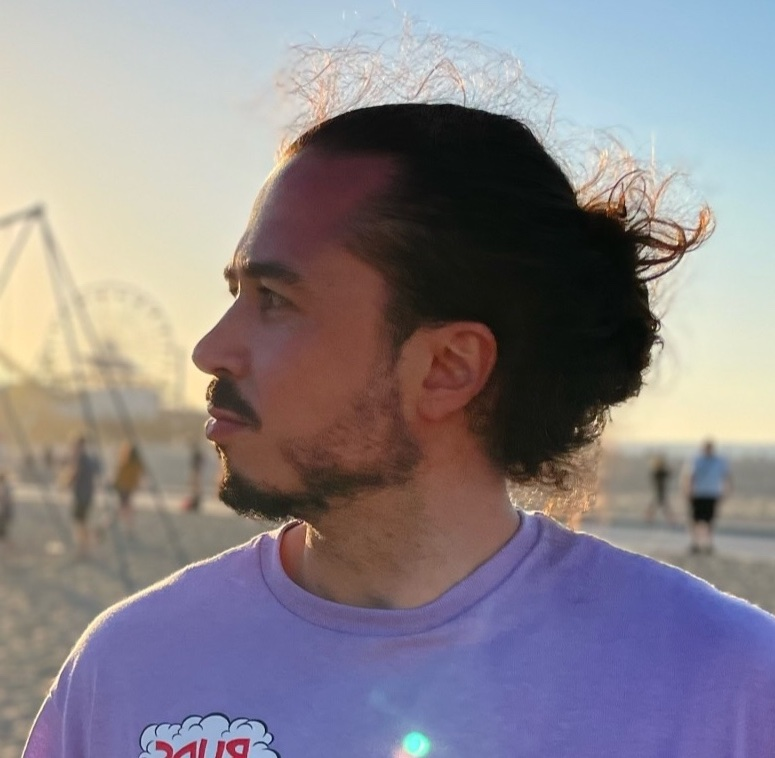
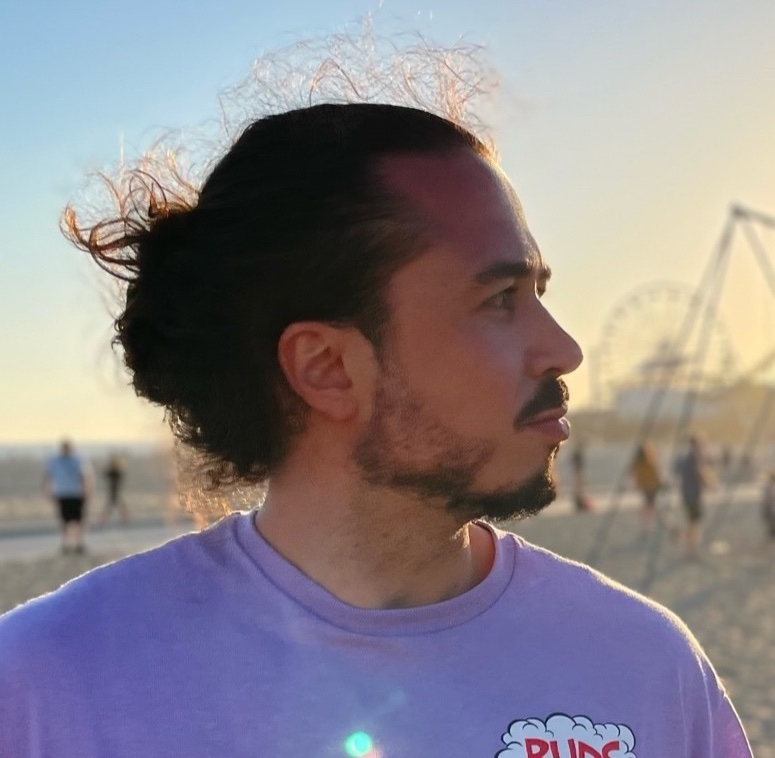
Improve landing page layout and replace picture

diff --git a/src/components/landing/LandingPage.tsx b/src/components/landing/LandingPage.tsx
@@ -12,6 +12,14 @@ import SurfKitty from '../surfkitty/SurfKitty';
 export const LandingPage = (): ReactElement => {
   return (
     <>
+      <Box display={{ md: 'flex' }}>
+        <Box flexGrow={1}>
+          <Heading as={'h2'} variant={'page-title'}>
+            Lars Braitinger
+          </Heading>
+          <p>Software Engineer</p>
+        </Box>
+      </Box>
       <SurfKitty />
       <Container maxW={'container.lg'}>
         <Box borderRadius={'lg'} p={3} mb={6} alignContent={'center'}
@@ -19,62 +27,66 @@ export const LandingPage = (): ReactElement => {
              css={{ backdropFilter: 'blur(10px)' }}>
           Hi, I'm a Full-Stack Developer based in Switzerland who loves to connect & create.
         </Box>
-        <Box display={{ md: 'flex' }}>
-          <Box flexGrow={1}>
-            <Heading as={'h2'} variant={'page-title'}>
-              Lars Braitinger
-            </Heading>
-            <p>Software Engineer</p>
-          </Box>
-          <Box
-            flexShrink={0}
-            mt={{ base: 4, md: 0 }}
-            ml={{ md: 6 }}
-            textAlign="center"
-          >
-            <Box
-              borderColor="whiteAlpha.800"
-              borderWidth={2}
-              borderStyle="solid"
-              w="100px"
-              h="100px"
-              display="inline-block"
-              borderRadius="full"
-              overflow="hidden"
-            >
-              <ProfileImage
-                src="/images/lars.jpeg"
-                alt="Profile image"
-                borderRadius="full"
-                width="100"
-                height="100"
-              />
-            </Box>
-          </Box>
-        </Box>
         <Section delay={0.1}>
           <Heading as={'h3'} variant={'section-title'}>
             Intro
           </Heading>
-          <Paragraph>As a passionate and dedicated software engineer, I bring industry experience in designing,
-            developing, and maintaining both web and mobile applications using a diverse range of tech stacks. I am
-            proficient in understanding clients' needs and delivering projects that meet their requirements. With a
-            strong
-            academic background and hands-on experience in transforming software-related business ideas into reality, I
-            am
-            committed to collaborating with teams to deliver high-quality products on time.</Paragraph>
-          <br />
-          <Paragraph>
-            Throughout my journey, I have honed my skills in various aspects of software engineering and am always eager
-            to take on challenging roles that allow me to apply and grow my expertise. I invite you to explore my
-            portfolio to discover the exciting projects I've had the pleasure of working on, and learn more about how I
-            can help bring your vision to life.
-          </Paragraph>
-          <Box textAlign={'center'} my={4} mt={10} mb={20}>
-            <Button as={Link} href={'/works'} rightIcon={<ChevronRightIcon />} colorScheme={'teal'}>
-              My portfolio
-            </Button>
+          <Box
+            display={{ base: 'block', md: 'flex' }}
+            mt={{ base: 4, md: 0 }}
+          >
+            <Box
+              flexShrink={0}
+              order={{ base: 0, md: 1 }}
+              mt={{ base: 4, md: 0 }}
+              ml={{ md: 6 }}
+              textAlign="center"
+            >
+              <Box
+                borderColor="whiteAlpha.800"
+                borderWidth={2}
+                borderStyle="solid"
+                w="100px"
+                h="100px"
+                display="inline-block"
+                borderRadius="full"
+                overflow="hidden"
+              >
+                <ProfileImage
+                  src="/images/lars.jpeg"
+                  alt="Profile image"
+                  borderRadius="full"
+                  width="100"
+                  height="100"
+                />
+              </Box>
+            </Box>
+            <Box
+              flex="1"
+              order={{ base: 1, md: 0 }}
+              pr={{ md: 6 }}
+            >
+              <Paragraph>As a passionate and dedicated software engineer, I bring industry experience in designing,
+                developing, and maintaining both web and mobile applications using a diverse range of tech stacks. I am
+                proficient in understanding clients' needs and delivering projects that meet their requirements. With a
+                strong
+                academic background and hands-on experience in transforming software-related business ideas into reality, I
+                am
+                committed to collaborating with teams to deliver high-quality products on time.</Paragraph>
+              <br />
+              <Paragraph>
+                Throughout my journey, I have honed my skills in various aspects of software engineering and am always eager
+                to take on challenging roles that allow me to apply and grow my expertise. I invite you to explore my
+                portfolio to discover the exciting projects I've had the pleasure of working on, and learn more about how I
+                can help bring your vision to life.
+              </Paragraph>
+            </Box>
           </Box>
+          {/*<Box textAlign={'center'} my={4} mt={10} mb={20}>*/}
+          {/*  <Button as={Link} href={'/works'} rightIcon={<ChevronRightIcon />} colorScheme={'teal'}>*/}
+          {/*    My portfolio*/}
+          {/*  </Button>*/}
+          {/*</Box>*/}
         </Section>
         <Section delay={0.2}>
           <Heading as={'h3'} variant={'section-title'}>

diff --git a/src/components/navbar/Navbar.tsx b/src/components/navbar/Navbar.tsx
@@ -64,9 +64,9 @@ export const Navbar = ({ path }: NavbarProps) => {
           flexGrow={1}
           mt={{ base: 4, nmd: 0 }}
         >
-          <LinkItem href={'/work'} path={path}>
-            Work
-          </LinkItem>
+          {/*<LinkItem href={'/work'} path={path}>*/}
+          {/*  Work*/}
+          {/*</LinkItem>*/}
           <LinkItem href={'/blog'} path={path}>
             Blog
           </LinkItem>
@@ -78,7 +78,7 @@ export const Navbar = ({ path }: NavbarProps) => {
               <MenuButton as={IconButton} icon={<HamburgerIcon />} variant={'outline'} aria-label={'Options'} />
               <MenuList>
                 <MenuItem as={Link} href={'/'}>About</MenuItem>
-                <MenuItem as={Link} href={'/work'}>Work</MenuItem>
+                {/*<MenuItem as={Link} href={'/work'}>Work</MenuItem>*/}
                 <MenuItem as={Link} href={'/blog'}>Blog</MenuItem>
                 <MenuItem as={Link} href={'https://github.com/l0r5/homepage-lb'}>View Source</MenuItem>
               </MenuList>
